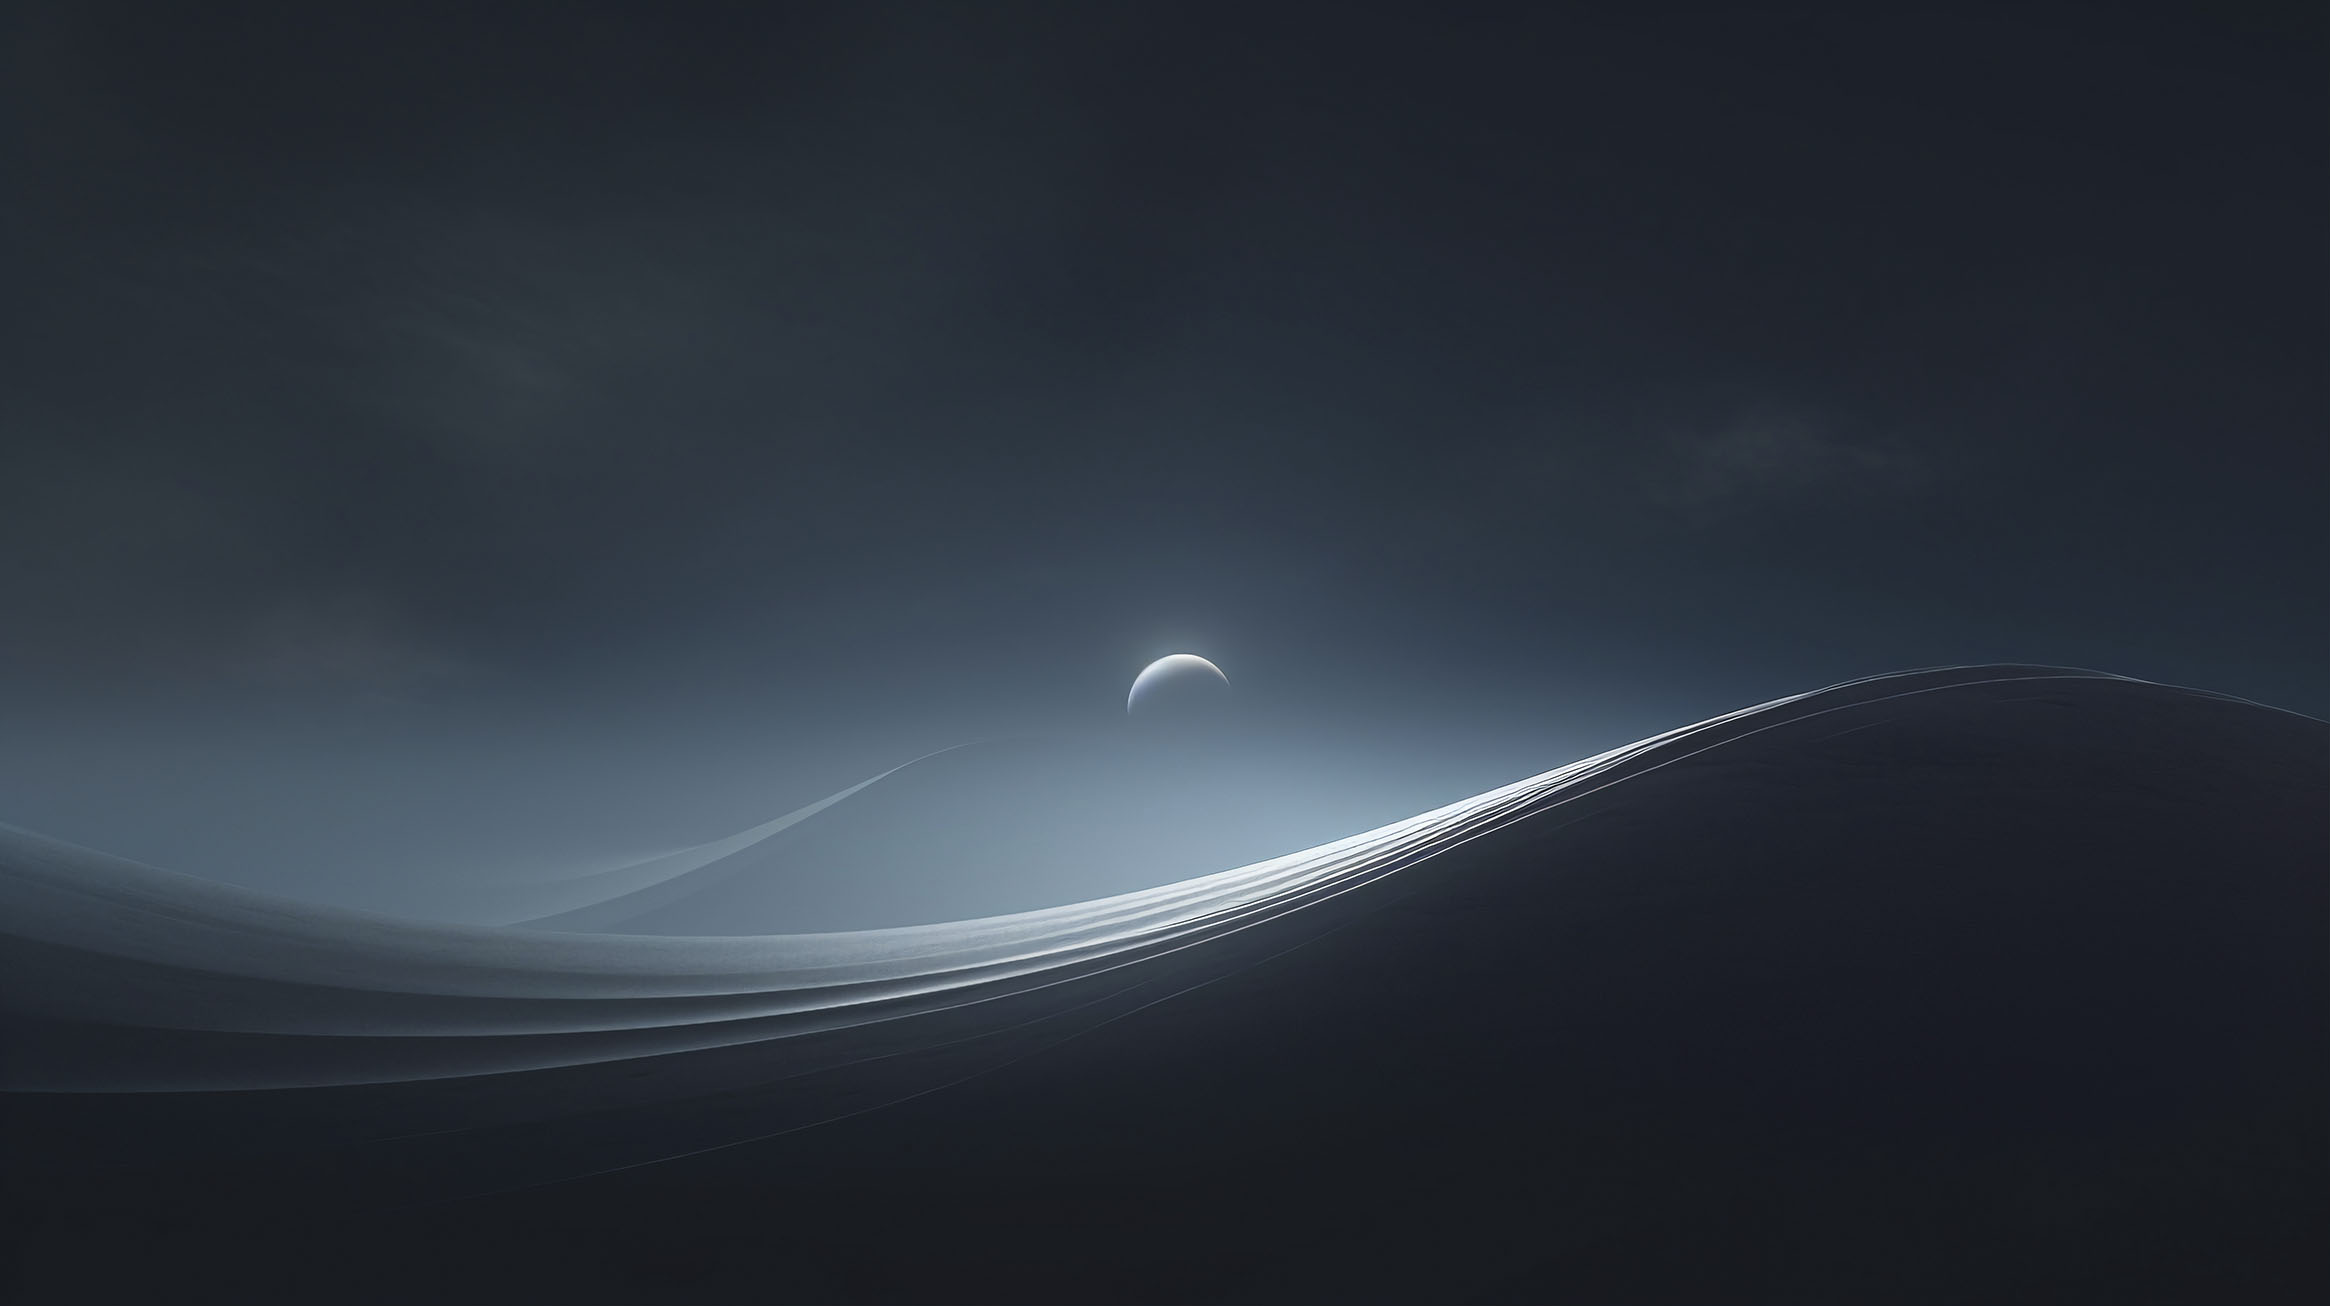
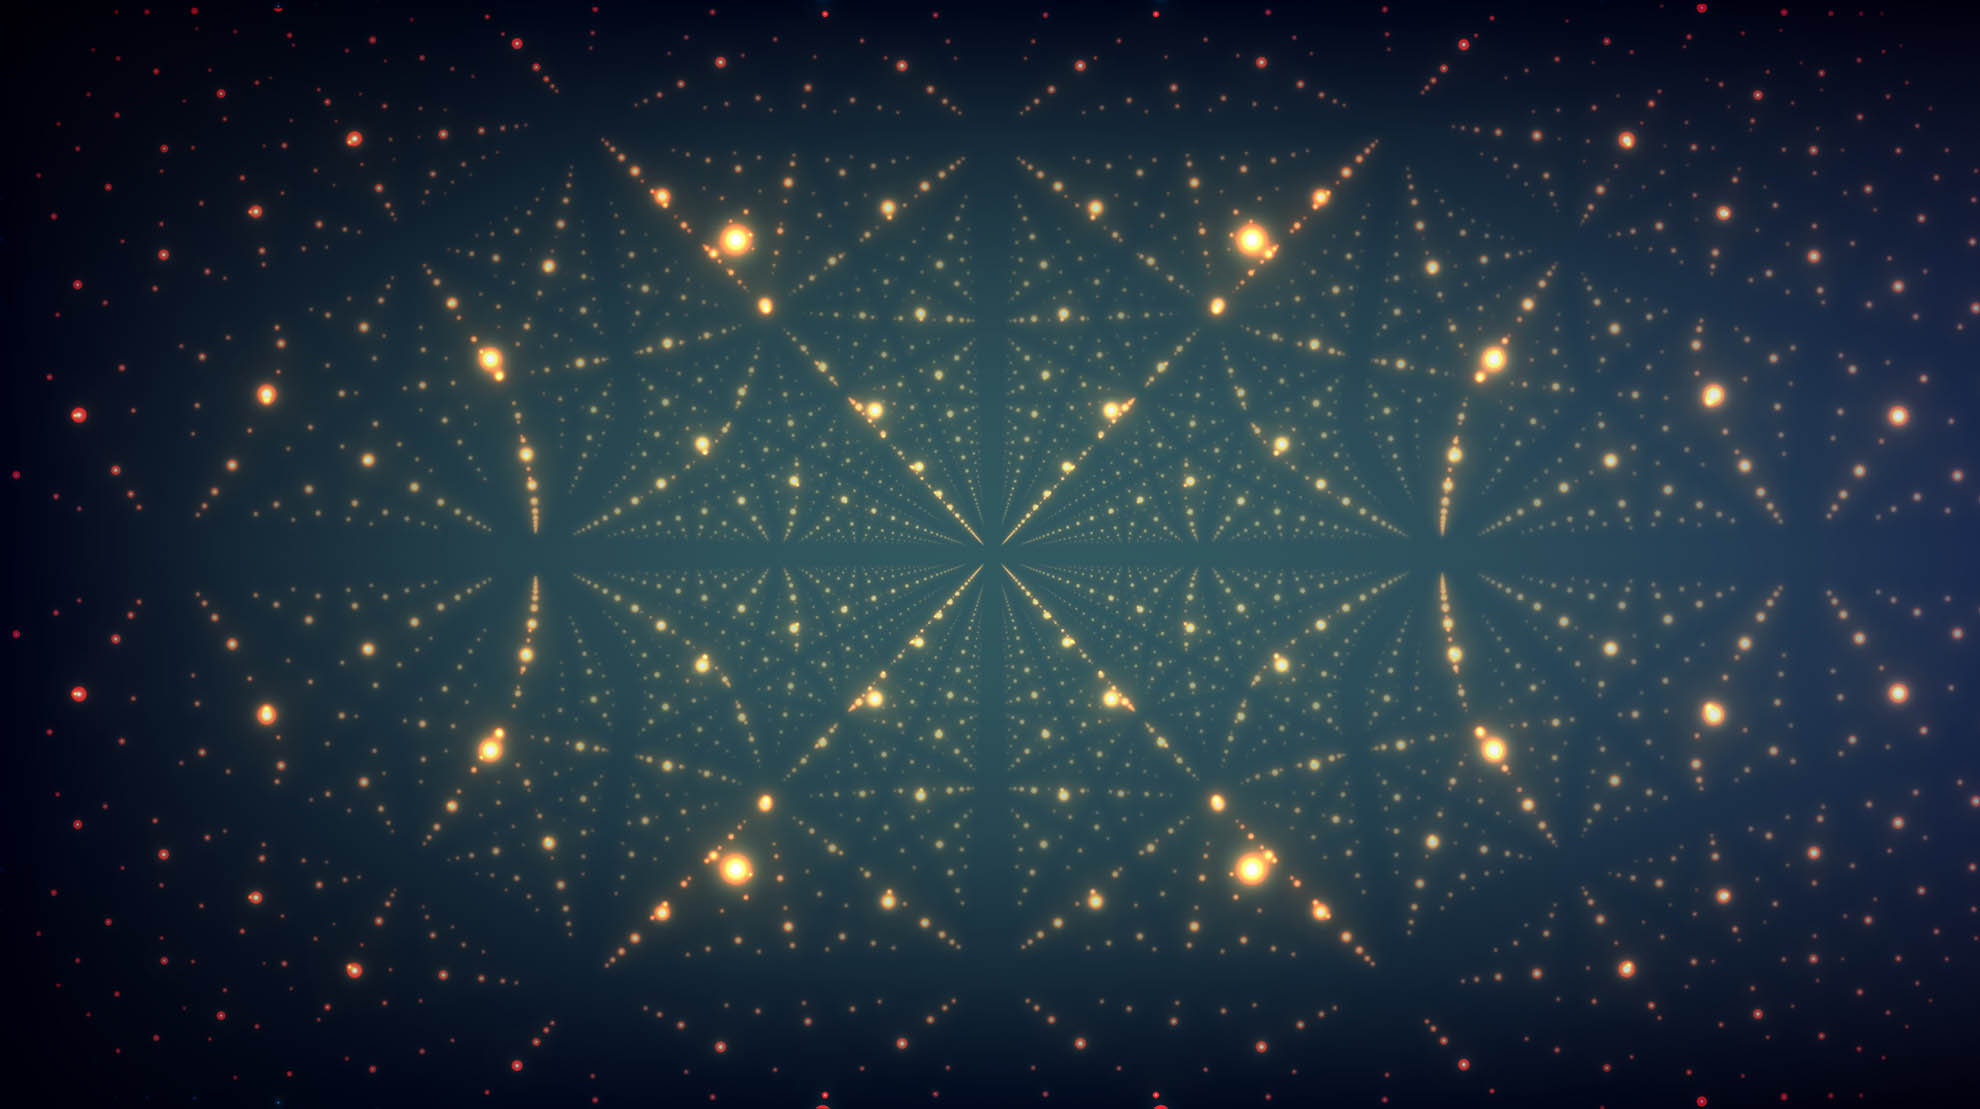
wip mazzo di carte e index

diff --git a/resources/js/Pages/MazzoCarte.svelte b/resources/js/Pages/MazzoCarte.svelte
@@ -1,5 +1,7 @@
 <script>
     import { writable } from "svelte/store";
+    import Titolo from "../Components/Titolo.svelte";
+
     export let numCarte = 3;
     const title = import.meta.env.VITE_APP_NAME;
     const totCarte = 22;
@@ -9,6 +11,7 @@
     const larghezzaTotale = larghezzaCarta + (totCarte - 1) * overlap;
 
     let carteSelezionate = writable([]);
+    let domanda ;
 
     function toggleCarta(i) {
         carteSelezionate.update((selected) => {
@@ -22,10 +25,9 @@
     }
 </script>
 
-<main >
-    <h1 class="d-flex justify-content-center font-bold text-4xl margintop">
-        TAROCCHI GRATIS ONLINE
-    </h1>
+<main class="d-flex flex-column align-items-center">
+    <Titolo testo="TAROCCHI GRATIS ONLINE"></Titolo>
+
     <h4 class="d-flex justify-content-center text-4xl">
         Amore, denaro, lavoro,famiglia, destino, opportunità...
     </h4>
@@ -34,37 +36,64 @@
             Scegli le carte dal mazzo qiu sotto
         </p>
     </div>
-    <div class="carte-container" style="width:{larghezzaTotale}px;">
-        {#each Array(totCarte) as _, i}
-            <!-- svelte-ignore a11y-click-events-have-key-events -->
-            <!-- svelte-ignore a11y-no-static-element-interactions -->
-            <div
-                class="carta {$carteSelezionate.includes(i)  ? 'selezionata'   : ''}"
-                style="left:{i * overlap}px; z-index:{$carteSelezionate.includes(i) ? 100 : i}"
-                on:click={() => toggleCarta(i)}
-            />
-        {/each}
+    <div class="carte-wrapper ">
+        <div class="carte-container" style="width:{larghezzaTotale}px;">
+            {#each Array(totCarte) as _, i}
+                <!-- svelte-ignore a11y-click-events-have-key-events -->
+                <!-- svelte-ignore a11y-no-static-element-interactions -->
+                <div
+                    class="carta {$carteSelezionate.includes(i)
+                        ? 'selezionata'
+                        : ''}"
+                    style="left:{i *
+                        overlap}px; z-index:{$carteSelezionate.includes(i)
+                        ? 100
+                        : i}"
+                    on:click={() => toggleCarta(i)}
+                />
+            {/each}
+        </div>
+
+        {#if numCarte==3}
+     
+   
+
+        <div class="d-flex justify-content-center ">
+            <div class="d-flex flex-column align-items-center justify-content-center ">
+                <div>scrivi la tua domanda</div>
+                <input bind:value={domanda} style="width:350px ;" />
+            </div>
+        </div>
+        {/if}
+
+        <button on:click={()=>alert(domanda)} >VAi avanti</button>
     </div>
 </main>
 
 <style>
-    .margintop {
-        margin-top: 20px;
+    .carte-wrapper {
+        width: 100%;
+        overflow-x: auto;
+        overflow-y: hidden;
+        white-space: nowrap;
+        margin-top: 50px;
+       
     }
+
     .carte-container {
         position: relative;
         height: 220px;
         margin: 0 auto;
-        margin-top: 100px;
+       
     }
 
     .carta {
         position: absolute;
-        width: 100px;
-        height: 180px;
+        width: 105px;
+        height: 187px;
         background-image: url("/images/dorso.jpg");
-        background-size: cover;
-        border-radius: 10px;
+        background-size: contain;
+
         box-shadow: 0 0 15px rgba(0, 0, 0, 0.3);
         cursor: pointer;
         transition:
@@ -79,16 +108,6 @@
     .carta.selezionata {
         transform: translateY(20px);
         z-index: 100;
-    }
-    h1 {
-        color: #d6a227;
-        font-size: 36px;
-        font-family: "Open Sans", sans-serif;
-        font-weight: 400;
-        letter-spacing: 2px;
-        text-align: center;
-        margin: 100px 0 10px;
-        line-height: 38px;
     }
     h4 {
         font-family: "Playfair Display", serif;

diff --git a/resources/js/Pages/Index.svelte b/resources/js/Pages/Index.svelte
@@ -2,16 +2,19 @@
     import { onMount, onDestroy } from "svelte";
 
     import Scelta from "../Components/Scelta.svelte";
-
+    import Titolo from "../Components/Titolo.svelte";
+    import Carta from "../Components/Carta.svelte";
     
-    const title  = import.meta.env.VITE_APP_NAME;
     export let errors;
+
+    const appname  = import.meta.env.VITE_APP_NAME;
+
+ 
 </script>
 
-<main>
-    <h1 class="d-flex justify-content-center mt-4 font-bold text-4xl">
-        {title}
-    </h1>
+<main >
+    <Titolo testo={appname}> </Titolo>
+  
     <div class="d-flex flex-row justify-content-center mt-5 pt-5 gap-5">
         <div class="item ">
             <Scelta  titolo="Tarocchi" angolo="-20" destinazione="/m5" /></div>
@@ -24,31 +27,13 @@
     <h4 class="d-flex justify-content-center mt-4 font-bold text-4xl">
         Lettura dei Tarocchi Gratis – Cartomanzia con IA interattiva
     </h4>
-    <p class="d-flex justify-content-center mt-4 font-bold text-4xl">
-        I Tarocchi sono uno strumento straordinario per aiutarci a comprendere
-        il nostro punto di partenza e il percorso da intraprendere per
-        raggiungere i nostri obiettivi. Il nostro sito utilizza l'intelligenza
-        artificiale per offrire risposte interattive, permettendovi di esplorare
-        i Tarocchi del destino gratis in modo coinvolgente e personalizzato.
-        Questo vi regalerà un momento di auto-riflessione e di allineamento
-        personale, aiutandovi a interpretare i messaggi delle carte con una
-        guida intuitiva e innovativa.
-    </p>
+    
 </main>
 
 <style>
-    h1 {
-        color: rgb(126, 6, 253);
-    }
+    
     h4 {
         color: rgb(250, 250, 250);
     }
-    p {
-        color: rgb(250, 250, 250);
-        margin-left: 400px;
-        margin-right: 400px;
-        text-align: center;
-        margin-top: -1rem;
-        margin-bottom: 2rem;
-    }
+
 </style>

diff --git a/resources/css/app.css b/resources/css/app.css
@@ -22,6 +22,18 @@ main {
 }
 
 
+h1 {
+     color: #d6a227 !important;
+    font-size: 36px !important;
+    font-family: "Open Sans", sans-serif;
+    font-weight: 400 !important;
+    letter-spacing: 2px;
+    text-align: center;
+    line-height: 38px !important;
+}
+
+
+
 .debug{
     border: 1px solid red;
 }
@@ -29,3 +41,18 @@ main {
 .debug-blue{
     border: 1px solid blue;
 }
+h4 {
+    font-family: 'Playfair Display', serif;
+    font-size: 18px;
+    text-align: center;
+    font-style: italic;
+    letter-spacing: 1px;
+    margin-bottom: 30px;
+    color: #ffffff;
+}
+
+textarea {
+    background-color: #d6a227;
+    color: #ffffff;
+    resize: none !important;
+  }

diff --git a/resources/js/Components/Scelta.svelte b/resources/js/Components/Scelta.svelte
@@ -13,7 +13,6 @@
 
 
 
-
 <div class="container d-flex align-items-center justify-content-center transition " 
      style="transform: rotate({angolo}deg) ;"
      on:click={navigate}
@@ -24,7 +23,8 @@
 
 <style>
    .container {
-    background-color:rgba(0, 0, 0, 0.5);
+
+    background:rgba(13, 48, 65, 0.867); ;
     height: 20rem;
     width: 10rem;
     color:white;
@@ -42,8 +42,8 @@
   }
   .transition:hover {
     font-size: 24px;
-    transform: scale(1.2);
-    background-color:rgba(14, 29, 245, 0.5);
+    border: 2px solid #d6a227;
+    color:#d6a227;
   }
 </style>
 

diff --git a/resources/js/Components/Titolo.svelte b/resources/js/Components/Titolo.svelte
@@ -1,0 +1,21 @@
+<script>
+
+export let testo;
+</script>
+
+<h1 class="d-flex justify-content-center font-bold text-4xl stile_titolo">
+   {testo}
+</h1>
+
+<style>
+    .stile_titolo{
+        margin-top: 20px;
+        color: #d6a227;
+        font-size: 36px;
+        font-family: "Open Sans", sans-serif;
+        font-weight: 400;
+        letter-spacing: 2px;
+        text-align: center;
+        line-height: 38px;
+    }
+</style>

diff --git a/vite.config.js b/vite.config.js
@@ -13,5 +13,15 @@ export default defineConfig({
                 refresh: true
             }
         ),
-    ]
+        
+    ],
+    server:{
+        host:"0.0.0.0",
+        port:5173,
+        hmr:{
+            host:"192.168.5.102",
+            protocol:"ws"
+        },
+        cors:true
+    }
 });

diff --git a/resources/js/Components/Carta.svelte b/resources/js/Components/Carta.svelte
@@ -23,6 +23,7 @@
     }
 </script>
 
+
 <div style="height:{height}; margin-left:{marginLeft} " on:click={handleClick}>
     <img style="height:100%" src={imgUrl} alt="carta" loading="lazy" />
 </div>
